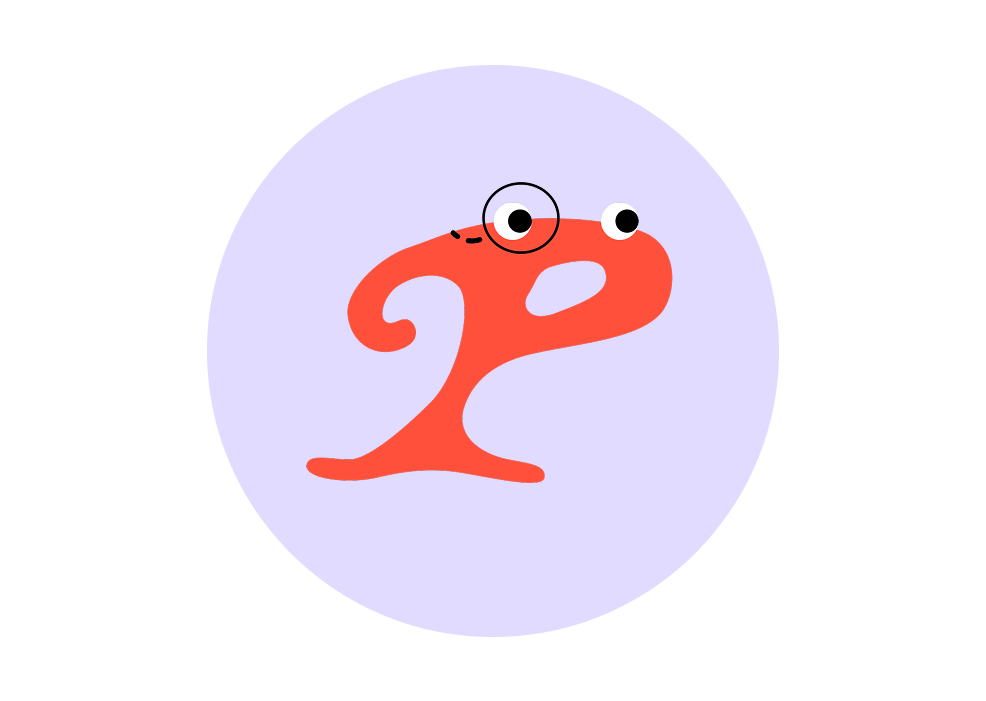
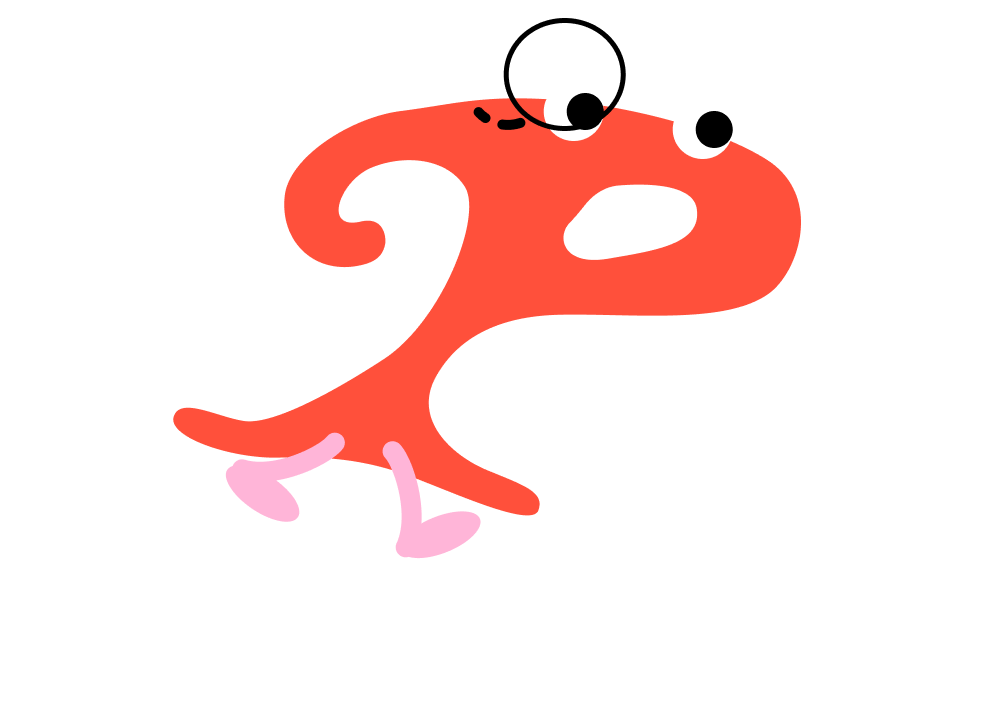
Final commit

diff --git a/frontend/src/api.js b/frontend/src/api.js
@@ -37,8 +37,20 @@ export async function checkClaim(input, person) {
   const profile = profileFromPerson(person);
   if (profile) form.append('profile', profile);
 
-  const res = await fetch('/api/check', { method: 'POST', body: form });
+  // The `ngrok-skip-browser-warning` header stops ngrok's free tier from
+  // returning its HTML interstitial instead of the JSON response (Vercel
+  // forwards this header through its /api rewrite to the tunnel).
+  const res = await fetch('/api/check', {
+    method: 'POST',
+    body: form,
+    headers: { 'ngrok-skip-browser-warning': 'true' },
+  });
   if (!res.ok) throw new Error(`Server error (${res.status})`);
+  const ct = res.headers.get('content-type') || '';
+  if (!ct.includes('application/json')) {
+    // Almost always the tunnel is down or pointing at a stale ngrok URL.
+    throw new Error('Backend unreachable — the API tunnel may be down or the deployed URL is stale.');
+  }
   const data = await res.json();
   if (data.error) throw new Error(data.error);
   return data;

diff --git a/frontend/src/components/SourceIcon.jsx b/frontend/src/components/SourceIcon.jsx
@@ -1,16 +1,22 @@
 import { useState } from 'react';
 
-// Renders the brand icon PNG for a source (assets/icons → public/source-icons),
-// falling back to the emoji from the backend if the file is missing or empty.
+// Source ids that have a real, non-empty icon PNG in public/source-icons.
+// Anything else (e.g. "papers", the dominant PMOS source) renders the emoji
+// directly — so we never fire a 404 that shows the broken-image glyph.
+const ICON_SOURCES = new Set(['nhs', 'who', 'zoe', 'johns_hopkins']);
+
+// Renders the brand icon PNG for a source, falling back to the emoji from the
+// backend when there's no icon file (or the image fails to load).
 export default function SourceIcon({ source, emoji }) {
   const [failed, setFailed] = useState(false);
-  const showImg = source && !failed;
+  const key = (source || '').toLowerCase();
+  const showImg = ICON_SOURCES.has(key) && !failed;
   return (
     <div className="source-icon">
       {showImg ? (
         <img
           className="source-icon-img"
-          src={`/source-icons/${source}.png`}
+          src={`/source-icons/${key}.png`}
           alt=""
           onError={() => setFailed(true)}
         />

diff --git a/backend/api.py b/backend/api.py
@@ -59,6 +59,7 @@ SOURCE_META = {
     "zoe": {"name": "ZOE", "tag": "SCIENCE-BACKED", "icon": "🔬"},
     "johns_hopkins": {"name": "Johns Hopkins", "tag": "INSTITUTIONAL", "icon": "🏛"},
     "x": {"name": "Social post", "tag": "SOCIAL", "icon": "📱"},
+    "papers": {"name": "Peer-reviewed research", "tag": "RESEARCH", "icon": "🔬"},
 }
 DEFAULT_SOURCE = {"name": "", "tag": "REFERENCE", "icon": "📄"}
 